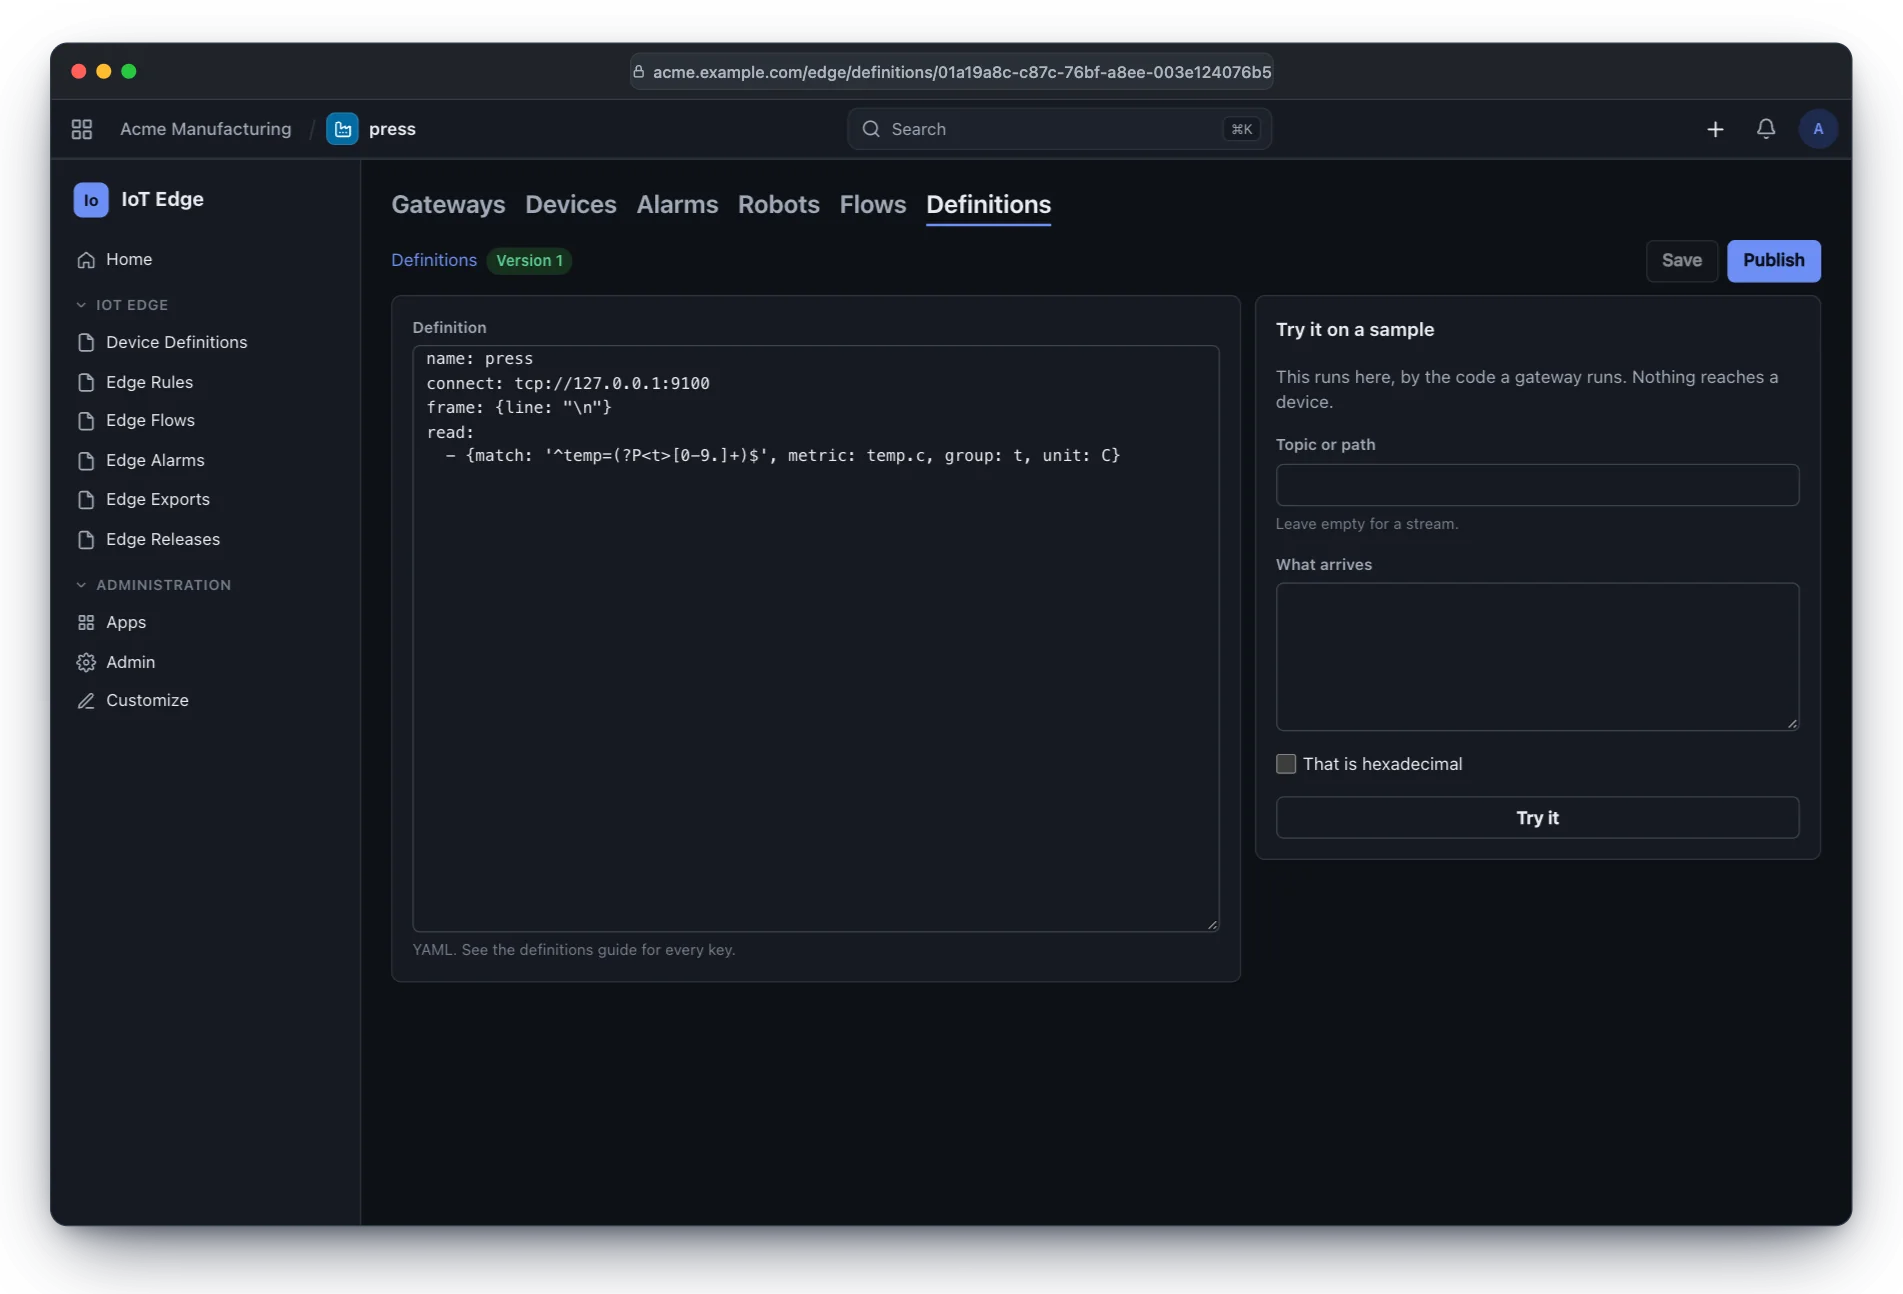
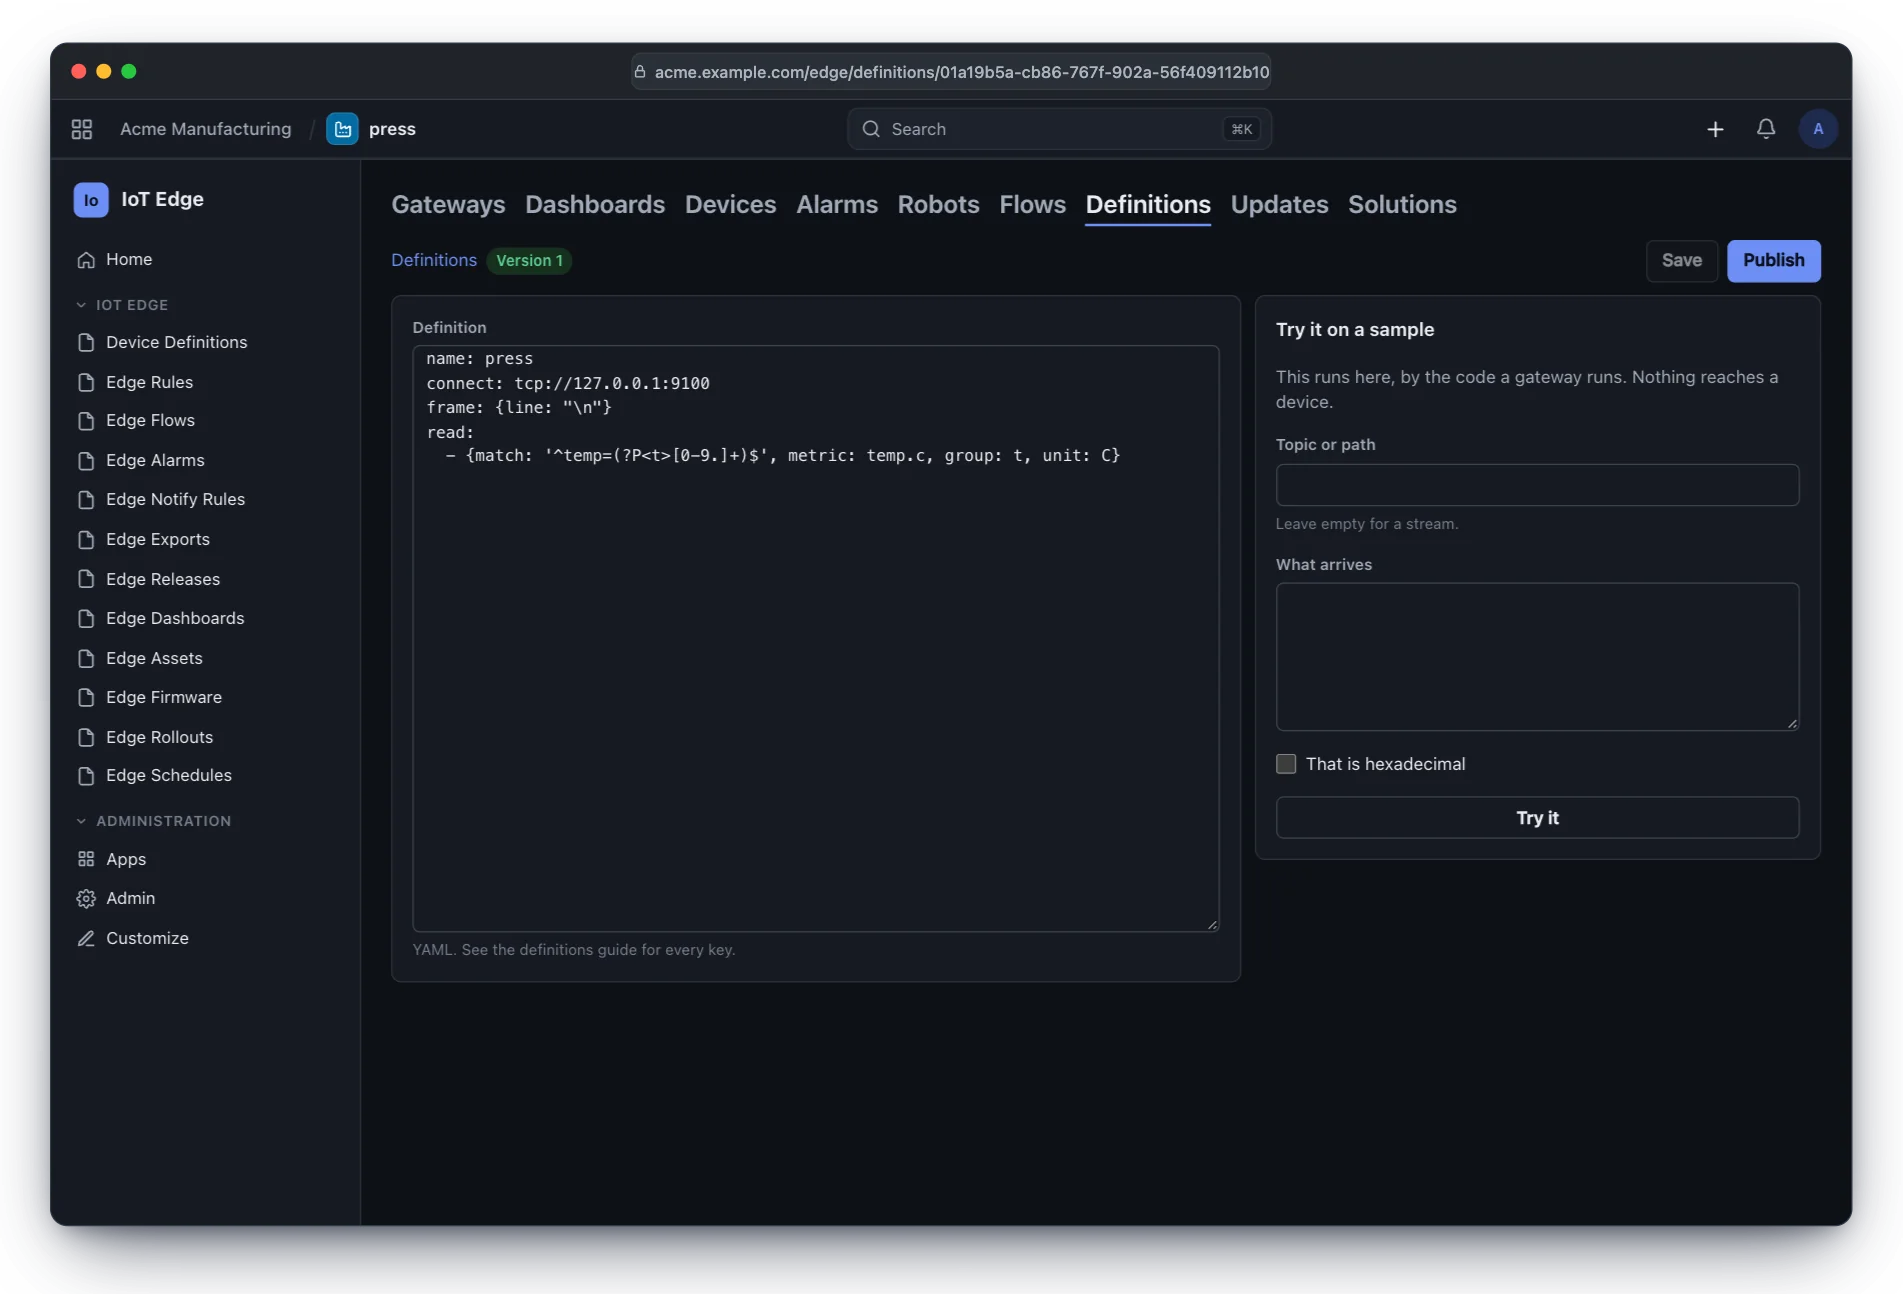
The README and its screenshots say what this is now

diff --git a/README.md b/README.md
@@ -5,7 +5,7 @@
   <img alt="Ferrum IoT Edge" src="docs/assets/banner-light.svg" width="100%">
 </picture>
 
-[![CI](https://github.com/CBFerrum/ferrum-app-edge/actions/workflows/ci.yml/badge.svg)](https://github.com/CBFerrum/ferrum-app-edge/actions/workflows/ci.yml) ![Version](https://img.shields.io/badge/version-0.1.0-0369a1?style=flat-square) ![Ferrum](https://img.shields.io/badge/Ferrum-%3E%3D0.3%2C%20%3C0.4-2f5bea?style=flat-square) ![License](https://img.shields.io/badge/license-AGPL--3.0-3b82f6?style=flat-square) ![Rust](https://img.shields.io/badge/Rust-native%20app-b7410e?style=flat-square&logo=rust&logoColor=white) ![Interface](https://img.shields.io/badge/interface-React%20%2B%20Vite-0ea5e9?style=flat-square&logo=react&logoColor=white) ![MCP](https://img.shields.io/badge/AI%20agents-MCP-8b5cf6?style=flat-square)
+[![CI](https://github.com/CBFerrum/ferrum-app-edge/actions/workflows/ci.yml/badge.svg)](https://github.com/CBFerrum/ferrum-app-edge/actions/workflows/ci.yml) ![Version](https://img.shields.io/badge/version-0.2.0-0369a1?style=flat-square) ![Ferrum](https://img.shields.io/badge/Ferrum-%3E%3D0.3%2C%20%3C0.4-2f5bea?style=flat-square) ![License](https://img.shields.io/badge/license-AGPL--3.0-3b82f6?style=flat-square) ![Rust](https://img.shields.io/badge/Rust-native%20app-b7410e?style=flat-square&logo=rust&logoColor=white) ![Interface](https://img.shields.io/badge/interface-React%20%2B%20Vite-0ea5e9?style=flat-square&logo=react&logoColor=white) ![MCP](https://img.shields.io/badge/AI%20agents-MCP-8b5cf6?style=flat-square)
 
 **A native app for [Ferrum](https://github.com/CBFerrum/Ferrum), the open-source, AI-first business platform.**
 
@@ -20,8 +20,12 @@
 Ferrum IoT Edge connects equipment to Ferrum without writing a driver. A device is described in
 a few lines of YAML: how to reach it, how to read it and how to command it. Those definitions run on
 `ferrum-site`, the gateway in this repository, which reads, decides and keeps working on location
-through outages and power cuts, and catches up when the link returns. Logic is drawn on a canvas,
-simulated, and reviewed by a second person before it runs at the gateway. The strongest thing a flow
+through outages and power cuts, and catches up when the link returns. Devices can also call it
+themselves, with ThingsBoard's own topics and paths, so their firmware needs no change.
+
+Logic is drawn on a canvas, simulated, reviewed by a second person, and then runs at a gateway or on
+the platform, and you can watch real messages pass through it. Dashboards, alarms that escalate,
+firmware rollouts and exports to the usual buses and clouds are all here. The strongest thing a flow
 can do is ask for a command, and Ferrum's ledger decides whether it goes out.
 
 Ferrum coordinates equipment and does not control it. Motion, machine sequencing and every safety
@@ -30,14 +34,14 @@ function stay with their own controllers.
 
 | At a glance | |
 |---|---|
-| 📦 Version | `0.1.0` |
+| 📦 Version | `0.2.0` |
 | 🧱 Platform | Ferrum `>=0.3, <0.4` |
 | 🔗 Requires | ops `>=0.1` |
 | 🖥 Interface | its own, at `/edge/` |
-| 🗃 Records | 6 entities in 1 package |
+| 🗃 Records | 13 entities in 1 package |
 | 👥 Roles | 3: Edge Viewer, Edge Engineer, Edge Reviewer |
 | 📊 Reports | 0 |
-| 🧪 Tests | 114 Rust tests, 2 interface test files |
+| 🧪 Tests | 303 Rust tests, 5 interface test files |
 
 
 > [!IMPORTANT]
@@ -51,27 +55,27 @@ function stay with their own controllers.
 <td width="50%" valign="top">
 
 ### 📝 Devices as data
-TCP, UDP, serial, HTTP, WebSocket, MQTT, Modbus TCP and RTU and OPC UA need no code, nor do Sparkplug B and MTConnect. Anything else runs as a driver in any language.
+One line per thing to read, for S7, EtherNet/IP, ADS, BACnet, OPC UA, Modbus, SNMP, KNX, IEC 104 and M-Bus, and a few lines for TCP, serial, HTTP, MQTT, Sparkplug B and MTConnect. Anything else is an external driver in any language.
 
 </td>
 <td width="50%" valign="top">
 
-### 🧩 Twenty templates
-VDA 5050, Open-RMF, openTCS, ROS 2 through rosbridge, MiR, Universal Robots and more, as starting points.
+### 📡 Devices that call in
+MQTT, HTTP and CoAP on ThingsBoard's own topics and paths, LwM2M, and OCPP 1.6 and 2.0.1 for EV chargers, with tokens, passwords or certificates.
 
 </td>
 </tr>
 <tr>
 <td width="50%" valign="top">
 
-### 🧪 Tried at a desk
-A definition is checked when saved, tried on a sample with no device attached, and reaches gateways only when published.
+### 🧩 Thirty-nine templates
+VDA 5050, Open-RMF, openTCS, ROS 2 through rosbridge, ChirpStack, Zigbee2MQTT and more, and whole solutions in one file.
 
 </td>
 <td width="50%" valign="top">
 
 ### 🔀 Flows
-A canvas of 29 kinds of step, with no code and no loops, simulated by the code a gateway runs and approved by someone else.
+A canvas of 44 kinds of step, with no code and no loops, simulated by the code a gateway runs, approved by someone else, and watched live. At the gateway offline, or on the platform across sites.
 
 </td>
 </tr>
@@ -79,7 +83,7 @@ A canvas of 29 kinds of step, with no code and no loops, simulated by the code a
 <td width="50%" valign="top">
 
 ### 🛑 Asks, never acts
-A flow can ask the ledger for a command. An approved automation rule or a person decides, so nothing on a canvas moves equipment by itself.
+A flow, a schedule or a rollout asks the ledger for a command. An approved envelope or a person decides, so nothing here moves equipment by itself.
 
 </td>
 <td width="50%" valign="top">
@@ -92,14 +96,22 @@ Reading, deciding, alarms and commands carry on through outages, crashes and res
 <tr>
 <td width="50%" valign="top">
 
-### 🔗 Server to server
-Boxes in cabinets over signed links, a relay out of a closed network, exports held until delivered, webhooks, signed updates with rollback.
+### 📊 Dashboards and alarms
+Drag-and-drop dashboards with shared links, history charts, alarms that are assigned, shelved and escalated, and reports.
 
 </td>
 <td width="50%" valign="top">
 
-### 🤖 Robots and alarms
-Where each robot says it is, on a plan of the site, and alarms that raise at the edge and come back to be acknowledged.
+### 🚚 A fleet at once
+Import from CSV, tags and assets, bulk commands, schedules, and firmware rollouts that stop by themselves. Never for a robot, a controller or anything a safety function runs on.
+
+</td>
+</tr>
+<tr>
+<td width="50%" valign="top">
+
+### 🔗 Everywhere else
+NATS, Kafka, RabbitMQ, InfluxDB, ClickHouse, S3, SQS, SNS, Pub/Sub, Azure and Sparkplug, held until delivered, plus peers, relays, twins, Thing Descriptions and Asset Administration Shells.
 
 </td>
 </tr>
@@ -109,17 +121,31 @@ Where each robot says it is, on a plan of the site, and alarms that raise at the
 
 <picture>
   <source media="(prefers-color-scheme: dark)" srcset="docs/assets/edge-home-dark.webp">
-  <img alt="The overview: gateways, what they reach and what needs a person." src="docs/assets/edge-home-light.webp" width="100%">
+  <img alt="The overview: gateways, what they reach, how the fleet stands and what needs a person." src="docs/assets/edge-home-light.webp" width="100%">
 </picture>
 
-<p align="center"><sub>The overview: gateways, what they reach and what needs a person.</sub></p>
+<p align="center"><sub>The overview: gateways, what they reach, how the fleet stands and what needs a person.</sub></p>
+
+<picture>
+  <source media="(prefers-color-scheme: dark)" srcset="docs/assets/edge-board-dark.webp">
+  <img alt="A dashboard: gauges, charts, alarms and controls, laid out by hand, with commands going through the ledger." src="docs/assets/edge-board-light.webp" width="100%">
+</picture>
+
+<p align="center"><sub>A dashboard: gauges, charts, alarms and controls, laid out by hand, with commands going through the ledger.</sub></p>
 
 <picture>
   <source media="(prefers-color-scheme: dark)" srcset="docs/assets/edge-flow-dark.webp">
-  <img alt="A flow: logic drawn as steps and wires, simulated and reviewed before it runs at the gateway." src="docs/assets/edge-flow-light.webp" width="100%">
+  <img alt="A flow: logic drawn as steps and wires, simulated and reviewed, and watched live while it runs at the gateway." src="docs/assets/edge-flow-light.webp" width="100%">
 </picture>
 
-<p align="center"><sub>A flow: logic drawn as steps and wires, simulated and reviewed before it runs at the gateway.</sub></p>
+<p align="center"><sub>A flow: logic drawn as steps and wires, simulated and reviewed, and watched live while it runs at the gateway.</sub></p>
+
+<picture>
+  <source media="(prefers-color-scheme: dark)" srcset="docs/assets/edge-devices-dark.webp">
+  <img alt="Devices: found by tag and site, imported from a file, and asked for something all at once." src="docs/assets/edge-devices-light.webp" width="100%">
+</picture>
+
+<p align="center"><sub>Devices: found by tag and site, imported from a file, and asked for something all at once.</sub></p>
 
 <picture>
   <source media="(prefers-color-scheme: dark)" srcset="docs/assets/edge-robots-dark.webp">
@@ -175,7 +201,7 @@ flowchart LR
     subgraph Server["Ferrum server"]
         API["REST · MCP · live"]
         K["Kernel<br/><small>permissions · row-level security · audit</small>"]
-        APP["IoT Edge<br/><small>6 entities · 3 roles</small>"]
+        APP["IoT Edge<br/><small>13 entities · 3 roles</small>"]
         OB[("Outbox")]
     end
     DB[("PostgreSQL")]
@@ -199,6 +225,8 @@ with them under the same rules as people.
 | 🚀 Launcher | **IoT Edge** at `/edge/` |
 | ➕ Create menu | Device definition |
 | ➕ Create menu | Flow |
+| ➕ Create menu | Dashboard |
+| 🌐 Public page | Dashboard |
 
 ## The gateway
 
@@ -214,6 +242,8 @@ cargo build --release --locked -p ferrum-site
 | [Running a gateway](docs/gateway.md) | Installing, enrolling, backing up, updating, boxes in cabinets, closed networks, exports |
 | [Definitions](docs/definitions.md) | Describing a device |
 | [Flows](docs/flows.md) | Drawing logic that runs at the gateway |
+| [Looking after a fleet](docs/fleet.md) | Importing, asking many at once, firmware, schedules, solutions |
+| [Parity](docs/parity.md) | What ThingsBoard and the rest do, capability by capability, and where this stands |
 | [Compatibility](docs/compatibility.md) | What was tried on what, and what was not |
 | [Licenses](docs/licenses.md), [accepted advisories](docs/advisories.yaml) | What a gateway compiles in, and what was reviewed |
 
@@ -221,7 +251,7 @@ cargo build --release --locked -p ferrum-site
 
 ## Data model
 
-The main records and how they connect (6 entities in all; `packages/` has every field).
+The main records and how they connect (13 entities in all; `packages/` has every field).
 
 ```mermaid
 erDiagram
@@ -239,31 +269,31 @@ erDiagram
         string summary PK
         string status
     }
+    EdgeAsset {
+        string asset_name PK
+    }
+    EdgeFirmware {
+        string firmware_name PK
+        string firmware_version
+        string url
+    }
     EdgeFlow {
         string flow_name PK
         string status
     }
-    EdgeExport {
-        string export_name PK
-        string send_to
-    }
-    EdgeRelease {
-        string release_version PK
-        string url
-        string sha256
-    }
     DeviceDefinition ||--o{ EdgeRule : "definition"
     EdgeRule ||--o{ EdgeAlarm : "rule"
     EdgeFlow ||--o{ EdgeAlarm : "flow"
+    DeviceDefinition ||--o{ EdgeFirmware : "definition"
 ```
 
 ### Roles
 
 | Role | What it is for | Entities |
 |---|---|---|
-| **Edge Viewer** | Sees gateways, devices, alarms and robots. | 8 |
-| **Edge Engineer** | Writes and publishes definitions, rules and exports, and acknowledges alarms. | 11 |
-| **Edge Reviewer** | Reviews flows drawn by others, and decides when they run. | 7 |
+| **Edge Viewer** | Sees gateways, devices, alarms and robots. | 14 |
+| **Edge Engineer** | Writes and publishes definitions, rules and exports, and acknowledges alarms. | 17 |
+| **Edge Reviewer** | Reviews flows drawn by others, and decides when they run. | 8 |
 
 ## Install
 
@@ -299,11 +329,9 @@ The tests need PostgreSQL with an ordinary (non-superuser) role, so row-level se
 applies:
 
 ```bash
-createuser ferrum --pwprompt && createdb -O ferrum ferrum_edge_test
+createuser ferrum --pwprompt && createdb -O ferrum ferrum_test
 cargo test
 ```
-
-`FERRUM_EDGE_TEST_DATABASE_URL` overrides the database URL.
 
 
 The interface lives in `ui/` and builds with Ferrum-Frontend's packages:
@@ -349,6 +377,7 @@ CHANGELOG.md  what changed in each version
 
 | Version | Highlights |
 |---|---|
+| **0.2.0** | Devices that call in: MQTT 3.1 to 5, HTTP and CoAP on ThingsBoard's own topics and paths, with tokens, passwords and certificates, provisioning … |
 | **0.1.0** | Definitions: devices described in a few lines of YAML over TCP, UDP, serial, HTTP, WebSocket, MQTT, Modbus TCP and RTU, OPC UA, listeners and … |
 
 Every version is in [CHANGELOG.md](CHANGELOG.md).
